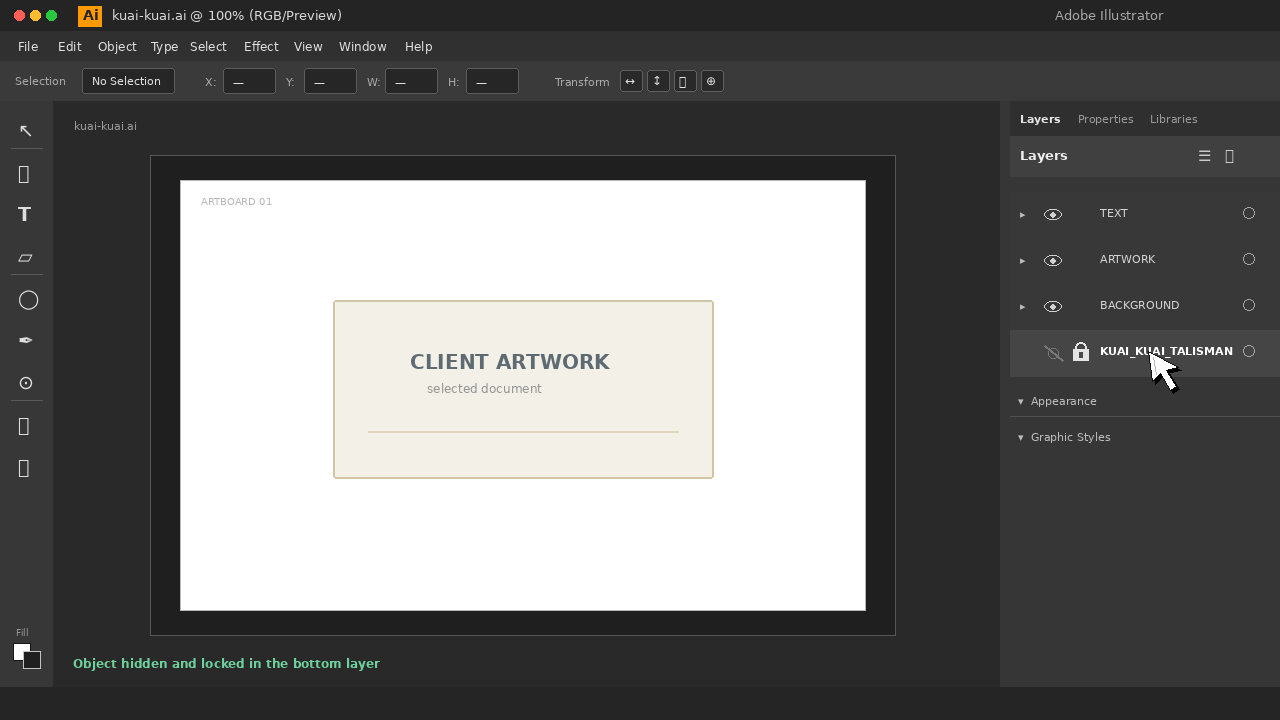
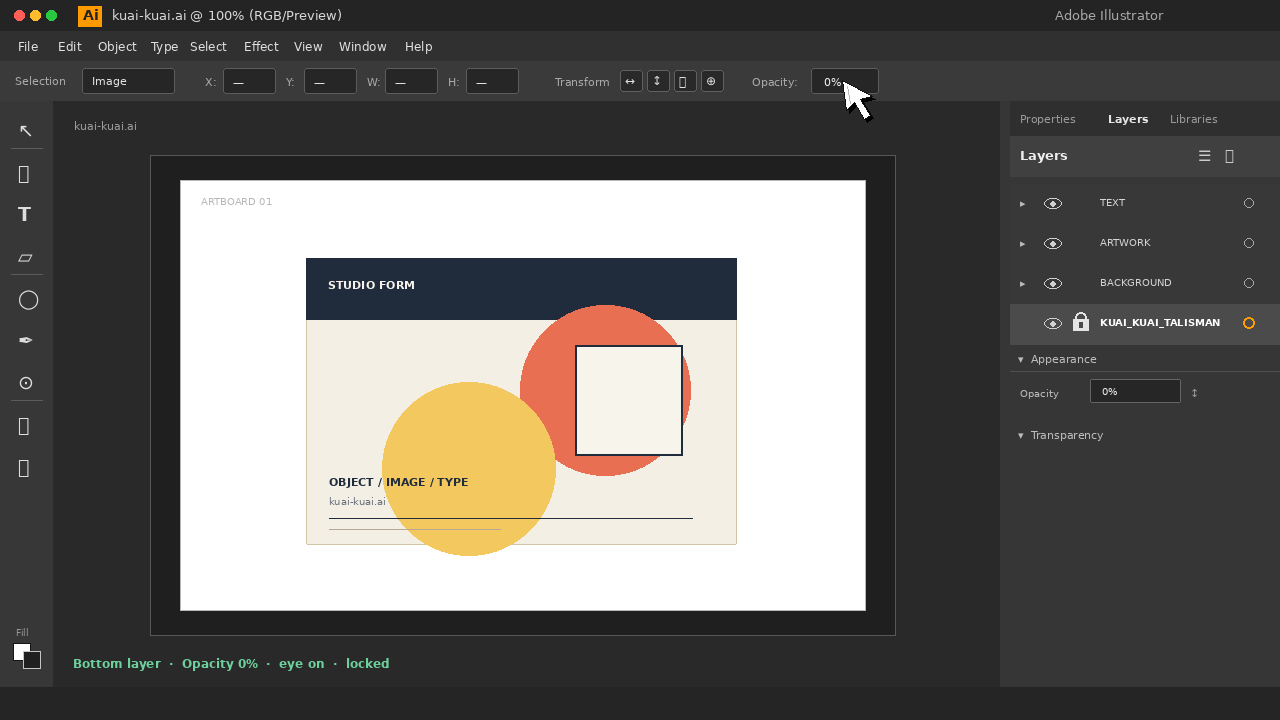
修正 Illustrator 圖層拖曳與 Opacity 流程

diff --git a/scripts/build-demo-gifs.py b/scripts/build-demo-gifs.py
@@ -40,6 +40,21 @@ def fit_package(size: int = 130) -> Image.Image:
     return package
 
 
+def faded_package(package: Image.Image, opacity: int) -> Image.Image:
+    """Return the placed package at Illustrator's current opacity."""
+    opacity = max(0, min(100, opacity))
+    if opacity == 100:
+        return package
+    faded = package.copy()
+    faded.putalpha(faded.getchannel("A").point(lambda value: value * opacity // 100))
+    return faded
+
+
+def lerp(start: int, end: int, amount: float) -> int:
+    amount = max(0.0, min(1.0, amount))
+    return int(round(start + (end - start) * amount))
+
+
 def draw_mouse(draw: ImageDraw.ImageDraw, x: int, y: int, pressed: bool = False) -> None:
     """Draw an actual pointer, not a decorative direction arrow."""
     pointer = [(x, y), (x + 4, y + 30), (x + 12, y + 22),
@@ -55,17 +70,23 @@ def draw_mouse(draw: ImageDraw.ImageDraw, x: int, y: int, pressed: bool = False)
 
 
 def draw_dashed_box(draw: ImageDraw.ImageDraw, box: tuple[int, int, int, int],
-                    colour: str = "#4da3ff", dash: int = 8) -> None:
+                    colour: str = "#2d7fff", dash: int = 8) -> None:
+    """Draw Illustrator's blue bounding box and eight transform handles."""
     x1, y1, x2, y2 = box
-    for x in range(x1, x2, dash * 2):
-        draw.line((x, y1, min(x + dash, x2), y1), fill=colour, width=2)
-        draw.line((x, y2, min(x + dash, x2), y2), fill=colour, width=2)
-    for y in range(y1, y2, dash * 2):
-        draw.line((x1, y, x1, min(y + dash, y2)), fill=colour, width=2)
-        draw.line((x2, y, x2, min(y + dash, y2)), fill=colour, width=2)
+    draw.rectangle((x1, y1, x2, y2), outline=colour, width=1)
+    handle_size = 6
+    points = [
+        (x1, y1), ((x1 + x2) // 2, y1), (x2, y1),
+        (x1, (y1 + y2) // 2), (x2, (y1 + y2) // 2),
+        (x1, y2), ((x1 + x2) // 2, y2), (x2, y2),
+    ]
+    for x, y in points:
+        draw.rectangle((x - handle_size // 2, y - handle_size // 2,
+                        x + handle_size // 2, y + handle_size // 2),
+                       fill="#ffffff", outline=colour, width=1)
 
 
-def illustrator_shell() -> tuple[Image.Image, ImageDraw.ImageDraw]:
+def illustrator_shell(opacity: int = 100, selected: bool = False) -> tuple[Image.Image, ImageDraw.ImageDraw]:
     im = Image.new("RGB", (W, H), "#252525")
     draw = ImageDraw.Draw(im)
 
@@ -88,7 +109,7 @@ def illustrator_shell() -> tuple[Image.Image, ImageDraw.ImageDraw]:
     draw.rectangle((0, 61, W, 101), fill="#3a3a3a")
     text(draw, (15, 74), "Selection", 11, "#a9a9a9")
     rounded(draw, (82, 68, 174, 93), 3, "#262626", "#5c5c5c")
-    text(draw, (92, 74), "No Selection", 11, "#e0e0e0")
+    text(draw, (92, 74), "Image" if selected else "No Selection", 11, "#e0e0e0")
     for x, label, value in [(205, "X:", "—"), (286, "Y:", "—"), (367, "W:", "—"),
                             (448, "H:", "—")]:
         text(draw, (x, 75), label, 11, "#a9a9a9")
@@ -101,6 +122,9 @@ def illustrator_shell() -> tuple[Image.Image, ImageDraw.ImageDraw]:
     text(draw, (652, 73), "↕", 12, "#e0e0e0")
     text(draw, (679, 73), "⌗", 12, "#e0e0e0")
     text(draw, (706, 73), "⊕", 12, "#e0e0e0")
+    text(draw, (752, 75), "Opacity:", 11, "#a9a9a9")
+    rounded(draw, (811, 68, 878, 93), 3, "#262626", "#5c5c5c")
+    text(draw, (824, 75), f"{opacity}%" if selected else "—", 11, "#f0f0f0")
 
     # Workspace, toolbar and document canvas.
     draw.rectangle((0, 101, W, 686), fill="#2c2c2c")
@@ -121,15 +145,24 @@ def illustrator_shell() -> tuple[Image.Image, ImageDraw.ImageDraw]:
     draw.rectangle((150, 155, 895, 635), fill="#1f1f1f", outline="#575757")
     draw.rectangle((180, 180, 865, 610), fill="#ffffff", outline="#b7b7b7")
     text(draw, (201, 195), "ARTBOARD 01", 10, "#b6b6b6")
-    rounded(draw, (333, 300, 713, 478), 3, "#f3f0e8", "#d1c5a3", width=2)
-    text(draw, (410, 350), "CLIENT ARTWORK", 20, "#5e6b72", bold=True)
-    text(draw, (427, 381), "selected document", 12, "#929292")
-    draw.line((368, 431, 678, 431), fill="#e0d6bd", width=2)
+    # A real-looking vector document sits on the artboard; the talisman is
+    # placed on top of it and later disappears through Opacity, not by moving
+    # the artwork into the dock.
+    rounded(draw, (306, 258, 736, 544), 2, "#f3efe5", "#d1c5a3", width=1)
+    draw.rectangle((306, 258, 736, 319), fill="#202c3b")
+    draw.ellipse((520, 305, 690, 475), fill="#e86f51")
+    draw.ellipse((382, 382, 555, 555), fill="#f3c95f")
+    draw.rectangle((575, 345, 682, 455), fill="#f7f4ec", outline="#202c3b", width=2)
+    text(draw, (328, 278), "STUDIO FORM", 11, "#f7f4ec", bold=True)
+    text(draw, (329, 475), "OBJECT / IMAGE / TYPE", 11, "#202c3b", bold=True)
+    text(draw, (329, 495), "kuai-kuai.ai", 10, "#68717b")
+    draw.line((329, 518, 692, 518), fill="#202c3b", width=1)
+    draw.line((329, 529, 500, 529), fill="#b4a991", width=1)
 
     # Right-side dock and Layers panel.
     draw.rectangle((1000, 101, W, 686), fill="#363636")
     draw.rectangle((1010, 101, W, 136), fill="#2f2f2f")
-    for x, label in [(1020, "Layers"), (1078, "Properties"), (1150, "Libraries")]:
+    for x, label in [(1020, "Properties"), (1108, "Layers"), (1170, "Libraries")]:
         text(draw, (x, 112), label, 11, "#e5e5e5" if label == "Layers" else "#999999",
              bold=label == "Layers")
     draw.rectangle((1010, 136, W, 176), fill="#404040")
@@ -156,62 +189,155 @@ def draw_lock(draw: ImageDraw.ImageDraw, x: int, y: int, locked: bool) -> None:
         draw.rectangle((x + 8, y + 12, x + 11, y + 17), fill="#4a4a4a")
 
 
-def draw_layers(draw: ImageDraw.ImageDraw, active: bool, final: bool) -> tuple[int, int]:
-    rows = ["TEXT", "ARTWORK", "BACKGROUND", "KUAI_KUAI_TALISMAN"]
-    y0 = 192
-    row_h = 46
-    target_y = y0 + 3 * row_h
-    for index, name in enumerate(rows):
-        y = y0 + index * row_h
-        selected = active and index == 3
-        draw.rectangle((1010, y, 1279, y + row_h), fill="#454545" if selected else "#383838")
-        text(draw, (1020, y + 15), "▸" if index < 3 else "", 11, "#bbbbbb")
-        draw_eye(draw, 1044, y + 10, visible=index < 3)
-        draw_lock(draw, 1071, y + 10, locked=final and index == 3)
-        text(draw, (1100, y + 14), name, 11, "#ffffff" if selected else "#d4d4d4",
+TALISMAN_LAYER = "KUAI_KUAI_TALISMAN"
+ARTWORK_LAYERS = ("TEXT", "ARTWORK", "BACKGROUND")
+
+
+def illustrator_state(progress: float, final: bool = False) -> dict[str, int | bool | str]:
+    """Return the Illustrator actions represented by a demo frame.
+
+    The package never travels into the right dock. The selected layer row moves
+    to the bottom, then the selected object's Opacity is reduced to 0%.
+    """
+    p = max(0.0, min(1.0, progress))
+    reorder = max(0.0, min(1.0, (p - 0.32) / 0.36))
+    opacity_fade = max(0.0, min(1.0, (p - 0.70) / 0.20))
+    if final:
+        reorder = 1.0
+        opacity_fade = 1.0
+    opacity = int(round(100 * (1.0 - opacity_fade)))
+    if final:
+        opacity = 0
+    phase = "place"
+    if p >= 0.24:
+        phase = "drag-layer"
+    if p >= 0.70:
+        phase = "set-opacity"
+    if final:
+        phase = "complete"
+    return {
+        "reorder": reorder,
+        "opacity": opacity,
+        "placed": final or p >= 0.08,
+        "selected": final or p >= 0.14,
+        "locked": final or p >= 0.94,
+        "layer_dragging": not final and 0.32 <= p < 0.70,
+        "opacity_adjusting": not final and 0.70 <= p < 0.92,
+        "package_alpha": opacity,
+        "phase": phase,
+    }
+
+
+def draw_layers(draw: ImageDraw.ImageDraw, state: dict[str, int | bool | str]) -> dict[str, int]:
+    """Draw a Layers panel whose row order changes, not the package position."""
+    y0 = 184
+    row_h = 40
+    reorder = float(state["reorder"])
+    talisman_y = y0
+
+    def render_row(name: str, y: int, selected: bool = False, dragged: bool = False) -> None:
+        is_talisman = name == TALISMAN_LAYER
+        draw.rectangle((1010, y, 1279, y + row_h), fill="#4b4b4b" if selected else "#383838")
+        if dragged:
+            draw.rectangle((1010, y, 1279, y + row_h), outline="#4da3ff", width=2)
+        text(draw, (1020, y + 12), "▸" if not is_talisman else "", 11, "#bbbbbb")
+        # The eye stays on. Opacity 0% is the deliberate Illustrator hiding step.
+        draw_eye(draw, 1044, y + 7, visible=True)
+        draw_lock(draw, 1071, y + 6, locked=is_talisman and bool(state["locked"]))
+        text(draw, (1100, y + 12), name, 10, "#ffffff" if selected else "#d4d4d4",
              bold=selected)
-        draw.ellipse((1243, y + 15, 1254, y + 26), outline="#a7a7a7")
-    text(draw, (1018, 394), "▾  Appearance", 11, "#bcbcbc")
-    draw.line((1010, 416, 1280, 416), fill="#505050")
-    text(draw, (1018, 430), "▾  Graphic Styles", 11, "#bcbcbc")
-    return 1130, target_y + row_h // 2
+        if selected:
+            draw.ellipse((1243, y + 13, 1254, y + 24), outline="#ff9d00", width=2)
+        else:
+            draw.ellipse((1244, y + 14, 1253, y + 23), outline="#a7a7a7")
+
+    if bool(state["layer_dragging"]):
+        # During a real Layers-panel drag, the selected row floats over the
+        # other rows while the blue insertion line marks the final position.
+        for index, name in enumerate(ARTWORK_LAYERS):
+            render_row(name, y0 + index * row_h)
+        talisman_y = int(round(y0 + reorder * 3 * row_h))
+        render_row(TALISMAN_LAYER, talisman_y, selected=True, dragged=True)
+        drop_y = y0 + 3 * row_h
+        draw.line((1013, drop_y - 4, 1276, drop_y - 4), fill="#4da3ff", width=2)
+    else:
+        rows = (TALISMAN_LAYER,) + ARTWORK_LAYERS if reorder < 1.0 else ARTWORK_LAYERS + (TALISMAN_LAYER,)
+        talisman_y = y0 + (3 if reorder >= 1.0 else 0) * row_h
+        for index, name in enumerate(rows):
+            render_row(name, y0 + index * row_h,
+                       selected=name == TALISMAN_LAYER and bool(state["selected"]))
+
+    text(draw, (1018, 352), "▾  Appearance", 11, "#bcbcbc")
+    draw.line((1010, 371, 1280, 371), fill="#505050")
+    text(draw, (1020, 387), "Opacity", 10, "#bdbdbd")
+    rounded(draw, (1090, 379, 1180, 402), 2, "#262626", "#656565")
+    text(draw, (1102, 385), f"{int(state['opacity'])}%", 10, "#f0f0f0")
+    text(draw, (1190, 386), "↕", 11, "#9e9e9e")
+    text(draw, (1018, 428), "▾  Transparency", 11, "#bcbcbc")
+
+    return {
+        "row_x": 1125,
+        "talisman_y": talisman_y + row_h // 2,
+        "top_talisman_y": y0 + row_h // 2,
+        "bottom_talisman_y": y0 + 3 * row_h + row_h // 2,
+        "opacity_x": 842,
+        "opacity_y": 80,
+    }
 
 
 def illustrator_frame(progress: float, final: bool = False) -> Image.Image:
-    im, draw = illustrator_shell()
-    target_x, target_y = draw_layers(draw, active=progress > 0.76 or final, final=final)
+    state = illustrator_state(progress, final=final)
+    im, draw = illustrator_shell(opacity=int(state["opacity"]), selected=bool(state["selected"]))
+    layer = draw_layers(draw, state)
     source_x, source_y = 520, 389
     package = fit_package(136)
     package_w, package_h = package.size
-    start_x, start_y = source_x - package_w // 2, source_y - package_h // 2
+    object_x, object_y = source_x - package_w // 2, source_y - package_h // 2
 
-    if final:
-        text(draw, (73, 656), "Object hidden and locked in the bottom layer", 12, "#6ed19d", bold=True)
-        draw_mouse(draw, target_x + 18, target_y - 2)
-        return im
+    if bool(state["placed"]) and int(state["package_alpha"]) > 0:
+        visible_package = faded_package(package, int(state["package_alpha"]))
+        im.paste(visible_package, (object_x, object_y), visible_package)
+        if bool(state["selected"]):
+            draw_dashed_box(draw, (object_x - 7, object_y - 7,
+                                   object_x + package_w + 7, object_y + package_h + 7))
 
-    if progress < 0.22:
-        cursor_x = int(730 - (730 - source_x) * (progress / 0.22))
-        cursor_y = int(230 + (source_y - 230) * (progress / 0.22))
-        object_x, object_y = start_x, start_y
+    p = max(0.0, min(1.0, progress))
+    if p < 0.14:
+        amount = p / 0.14
+        cursor_x = lerp(730, source_x, amount)
+        cursor_y = lerp(230, source_y, amount)
+        pressed = False
+    elif p < 0.26:
+        cursor_x, cursor_y, pressed = source_x, source_y, True
+    elif p < 0.70:
+        amount = (p - 0.26) / 0.44
+        cursor_x = lerp(source_x, layer["row_x"], amount)
+        cursor_y = lerp(source_y, layer["top_talisman_y"], amount)
+        if p >= 0.32:
+            cursor_y = layer["talisman_y"]
+        pressed = True
+    elif p < 0.82:
+        amount = (p - 0.70) / 0.12
+        cursor_x = lerp(layer["row_x"], layer["opacity_x"], amount)
+        cursor_y = lerp(layer["talisman_y"], layer["opacity_y"], amount)
         pressed = False
     else:
-        drag_progress = min(1.0, (progress - 0.22) / 0.70)
-        cursor_x = int(source_x + (target_x - source_x) * drag_progress)
-        cursor_y = int(source_y + (target_y - source_y) * drag_progress)
-        object_x = cursor_x - package_w // 2 + 10
-        object_y = cursor_y - package_h // 2 + 10
-        pressed = True
+        cursor_x, cursor_y, pressed = layer["opacity_x"], layer["opacity_y"], False
 
-    im.paste(package, (object_x, object_y), package)
-    draw_dashed_box(draw, (object_x - 7, object_y - 7, object_x + package_w + 7,
-                           object_y + package_h + 7))
     draw_mouse(draw, cursor_x, cursor_y, pressed=pressed)
-    if pressed:
-        text(draw, (72, 656), "Click and hold — drag the placed object to the bottom layer", 12,
+    if final:
+        text(draw, (73, 656), "Bottom layer  ·  Opacity 0%  ·  eye on  ·  locked", 12,
+             "#6ed19d", bold=True)
+    elif p < 0.20:
+        text(draw, (73, 656), "Place the official green package on the artboard", 12, "#d0d0d0")
+    elif p < 0.32:
+        text(draw, (73, 656), "Select the placed image — keep it on the artboard", 12,
+             "#80bfff", bold=True)
+    elif p < 0.70:
+        text(draw, (73, 656), "Drag the selected layer row to the bottom of Layers", 12,
              "#80bfff", bold=True)
     else:
-        text(draw, (72, 656), "Place the official green package on the artboard", 12, "#d0d0d0")
+        text(draw, (73, 656), "Set Opacity to 0% — keep the eye on", 12, "#dcdcaa", bold=True)
     return im
 
 

diff --git a/tests/test_ritual.py b/tests/test_ritual.py
@@ -17,6 +17,10 @@ CODE_SCRIPT = Path(__file__).resolve().parents[1] / "skills/kuai-kuai-bye-bye/sc
 code_spec = importlib.util.spec_from_file_location("code_kuai_kuai", CODE_SCRIPT)
 code_kuai_kuai = importlib.util.module_from_spec(code_spec)
 code_spec.loader.exec_module(code_kuai_kuai)
+DEMO_SCRIPT = Path(__file__).resolve().parents[1] / "scripts/build-demo-gifs.py"
+demo_spec = importlib.util.spec_from_file_location("build_demo_gifs", DEMO_SCRIPT)
+build_demo_gifs = importlib.util.module_from_spec(demo_spec)
+demo_spec.loader.exec_module(build_demo_gifs)
 
 class RitualTest(unittest.TestCase):
     def setUp(self):
@@ -162,6 +166,17 @@ class RitualTest(unittest.TestCase):
         self.assertIn(code_kuai_kuai.GREEN, output)
         self.assertIn(code_kuai_kuai.RESET, output)
         self.assertIn("[kuai-kuai] dev", output)
+
+    def test_illustrator_moves_layer_then_sets_opacity_zero(self):
+        dragging = build_demo_gifs.illustrator_state(0.55)
+        complete = build_demo_gifs.illustrator_state(1.0, final=True)
+        self.assertTrue(dragging["placed"])
+        self.assertTrue(dragging["layer_dragging"])
+        self.assertEqual(dragging["opacity"], 100)
+        self.assertEqual(complete["reorder"], 1.0)
+        self.assertEqual(complete["opacity"], 0)
+        self.assertTrue(complete["locked"])
+        self.assertEqual(complete["package_alpha"], 0)
 
 if __name__ == "__main__":
     unittest.main()

diff --git a/README.md b/README.md
@@ -2,7 +2,7 @@
 
 ### 拜一包乖乖，跟 Bug 說 Bye-bye。
 
-![Illustrator：把官方綠色乖乖拖進最底層](https://raw.githubusercontent.com/hansai-art/kuai-kuai-bye-bye/main/docs/demo-illustrator-kuai-kuai.gif)
+![Illustrator：把官方綠色乖乖拖到 Layers 最底部，再將 Opacity 設為 0%](https://raw.githubusercontent.com/hansai-art/kuai-kuai-bye-bye/main/docs/demo-illustrator-kuai-kuai.gif)
 
 ![Illustrator 操作畫面備援](https://raw.githubusercontent.com/hansai-art/kuai-kuai-bye-bye/main/docs/demo-illustrator-kuai-kuai.png)
 
@@ -27,7 +27,7 @@
 | 身分 | 乖乖放哪裡 | 真的做了什麼 |
 | --- | --- | --- |
 | 工程師 | `.kuai-kuai/` 與指定的原始碼 | 可選擇新增護身卡、官方圖檔、清冊、純註解，或用程式碼直接畫出像素版乖乖 |
-| 設計師 | Illustrator 圖層最底部 | 拖入官方圖檔，隱藏、鎖定，保留 Background |
+| 設計師 | Illustrator Layers 最底部 | 拖入官方圖檔，Opacity 設為 0%，鎖定，保留 Background |
 | 動畫師 | After Effects 合成最底部 | 匯入 PNG，設 Guide Layer、關閉可見性、鎖定 |
 
 結案率提升、當機率下降、客戶突然只改一版，屬於本專案的信仰設定。程式沒有修復軟體或提高成交率的功能，也沒有蒐集這些成效數據。
@@ -126,7 +126,12 @@ def bless(event, on_build=False, on_dev=False):
 
 ## 設計師：Illustrator
 
-首頁第一張 GIF 就是這個流程：把已授權的官方綠色乖乖置入 Illustrator，拖到 Layers 最底部，關閉可見性並鎖定。手動操作時請使用 `assets/kuai-kuai-official-green.webp`，或用你自己的授權圖檔；不要把護身圖層納入輸出。
+首頁第一張 GIF 就是這個流程：把已授權的官方綠色乖乖置入 Illustrator，讓乖乖保持在畫板上，將它的 Layers 列拖到最底部，再把 Opacity 設為 0%，最後鎖定。這裡不關閉眼睛，也不把圖片拖出畫板放進右側面板；隱藏效果由 Opacity 0% 完成。手動操作時請使用 `assets/kuai-kuai-official-green.webp`，或用你自己的授權圖檔；不要把護身圖層納入輸出。
+
+1. 置入官方綠色圖檔，讓圖片留在原本的畫板位置。
+2. 在 Layers 面板拖曳乖乖圖層列到最底部，眼睛保持開啟。
+3. 在控制列或 Appearance 面板將 Opacity 設為 `0%`。
+4. 鎖定圖層，不要把圖片本身拖進右側面板。
 
 ## 設計師：Photoshop
 

diff --git a/skills/kuai-kuai-bye-bye/SKILL.md b/skills/kuai-kuai-bye-bye/SKILL.md
@@ -42,9 +42,10 @@ python3 "<skill-dir>/scripts/kuai.py" doctor --project "/path/to/project"
 
 - Photoshop：`scripts/photoshop-kuai.jsx` 先讓使用者選擇已獲授權的 PNG、JPG、JPEG 或 WebP，安放在可用的最底部、隱藏並鎖定。底部是 Background 時放在其上方，不轉換原本背景。
 - After Effects：`scripts/after-effects-kuai.jsx` 先讓使用者選擇已獲授權的圖檔，在目前合成底部安放，設成 Guide Layer、關閉可見性並鎖定。保留匯入素材，避免未來重開專案遺失來源。
-- Illustrator、Figma、Blender 等其他軟體：只有具備實際連線與該軟體支援的方法才操作，依 design.md 安放。不要宣稱 JSX 通用所有軟體。
+- Illustrator：把已獲授權的官方綠色圖檔置入文件，保持在畫板上，將 Layers 列拖到最底部，把 Opacity 設為 0%，眼睛保持開啟並鎖定。不要把圖片拖進右側面板。沒有 Illustrator 的實際連線時，只提供圖檔與操作指引，不宣稱已修改原生文件。
+- Figma、Blender 等其他軟體：只有具備實際連線與該軟體支援的方法才操作，依 design.md 安放。不要宣稱 JSX 通用所有軟體。
 
-圖層命名 `__乖乖拜拜_請勿刪除__`，既有同名圖層不重複新增。最底層仍可能透過透明背景出現在成品，必須另外隱藏／排除輸出。保留原專案，驗證圖層、位置、可見性與輸出排除，不自動儲存覆蓋或開始渲染。
+圖層命名 `__乖乖拜拜_請勿刪除__`，既有同名圖層不重複新增。Illustrator 流程以 Opacity 0% 隱藏，不把圖片拖進右側面板，也不以關閉眼睛取代透明度設定。保留原專案，驗證圖層、位置、Opacity、鎖定狀態與輸出排除，不自動儲存覆蓋或開始渲染。
 
 ## 回報
 
